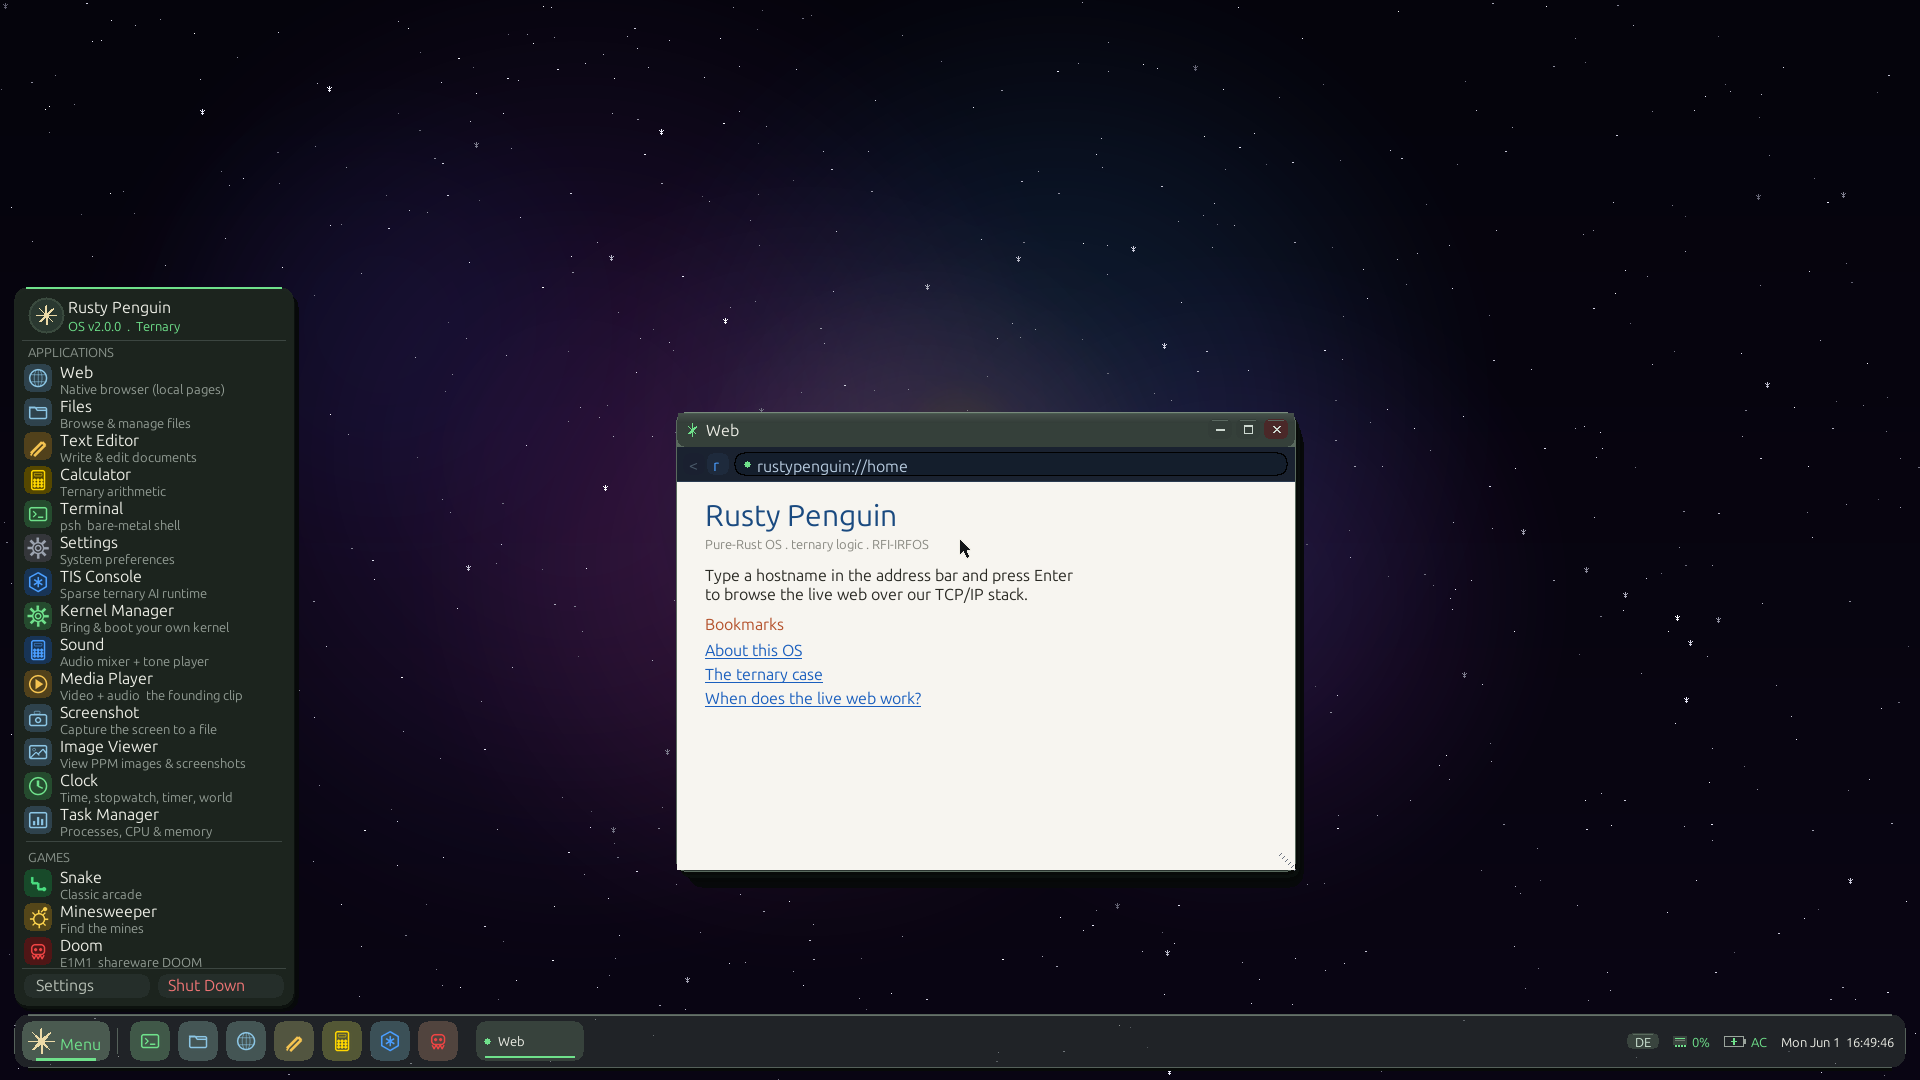
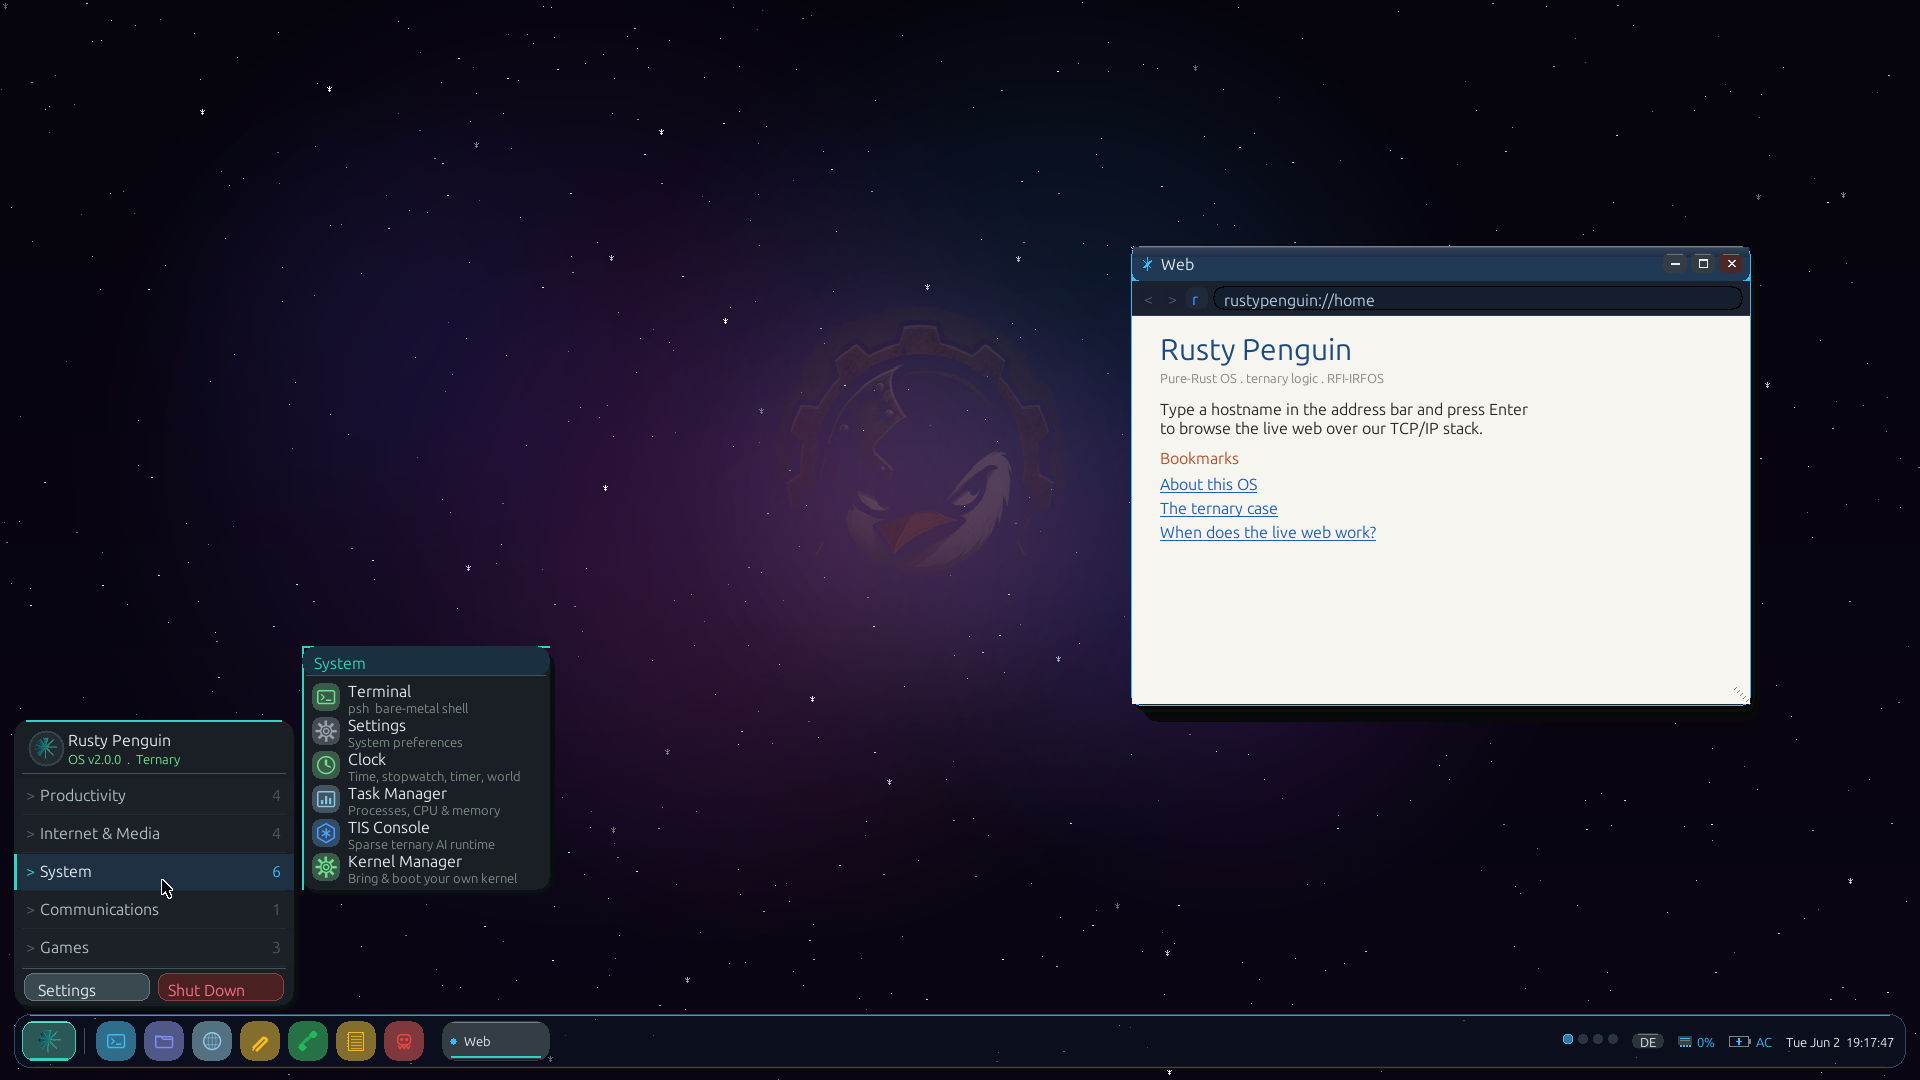
docs(readme): new canonical desktop screenshot + version badge 3.3.0
Replace the hero desktop shot with the current UI — dingir start button,
flyout category menu (System expanded), native browser on rustypenguin://home
over the Nebula wallpaper. Refresh caption + version badge to 3.3.0.

diff --git a/README.md b/README.md
@@ -10,7 +10,7 @@
 
 [![Language: Rust](https://img.shields.io/badge/Language-Rust-ce422b?logo=rust)](https://www.rust-lang.org/)
 [![License: MIT](https://img.shields.io/badge/License-MIT-green)](LICENSE)
-[![Version: 2.7.0](https://img.shields.io/badge/Version-2.7.0-blue)](https://github.com/rfi-irfos/rusty-penguin)
+[![Version: 3.3.0](https://img.shields.io/badge/Version-3.3.0-blue)](https://github.com/rfi-irfos/rusty-penguin)
 [![Platform: x86_64](https://img.shields.io/badge/Platform-x86__64-333)](https://en.wikipedia.org/wiki/X86-64)
 [![Kernel: Pure Rust](https://img.shields.io/badge/Kernel-Pure%20Rust%2C%20no%20libc-purple)](https://github.com/rfi-irfos/rusty-penguin)
 [![Status: Active Development](https://img.shields.io/badge/Status-Active%20Development-brightgreen)](https://github.com/rfi-irfos/rusty-penguin/pulse)
@@ -48,10 +48,11 @@ Preinstalled: `albert` · `ternlang` · `albert-cli` · `ternlang-mcp`
 > truthful rather than aspirational. It's a research OS we're trying to grow into a
 > daily driver — not one yet.
 
-![Rusty Penguin desktop — menu open, native browser on rustypenguin://home, Nebula wallpaper](docs/screenshots/rusty-penguin-desktop.png)
+![Rusty Penguin desktop — System flyout menu open, native browser on rustypenguin://home, Nebula wallpaper](docs/screenshots/rusty-penguin-desktop.png)
 
-*The desktop with the start menu open and the native browser on `rustypenguin://home`,
-over the warm "Nebula" wallpaper. The browser is real: point it at any host and it
+*The desktop with the start menu open — the dingir button, the flyout category
+menu (System expanded), and the native browser on `rustypenguin://home`, over the
+deep "Nebula" wallpaper. The browser is real: point it at any host and it
 fetches live over the from-scratch TCP/IP + TLS 1.3 stack — on boot it even
 [googles the OS itself](docs/screenshots/rusty-penguin-googling-itself.png), pulling
 `google.com/search?q=rusty+penguin+os` over our own TLS with no X11, no Wayland, no
